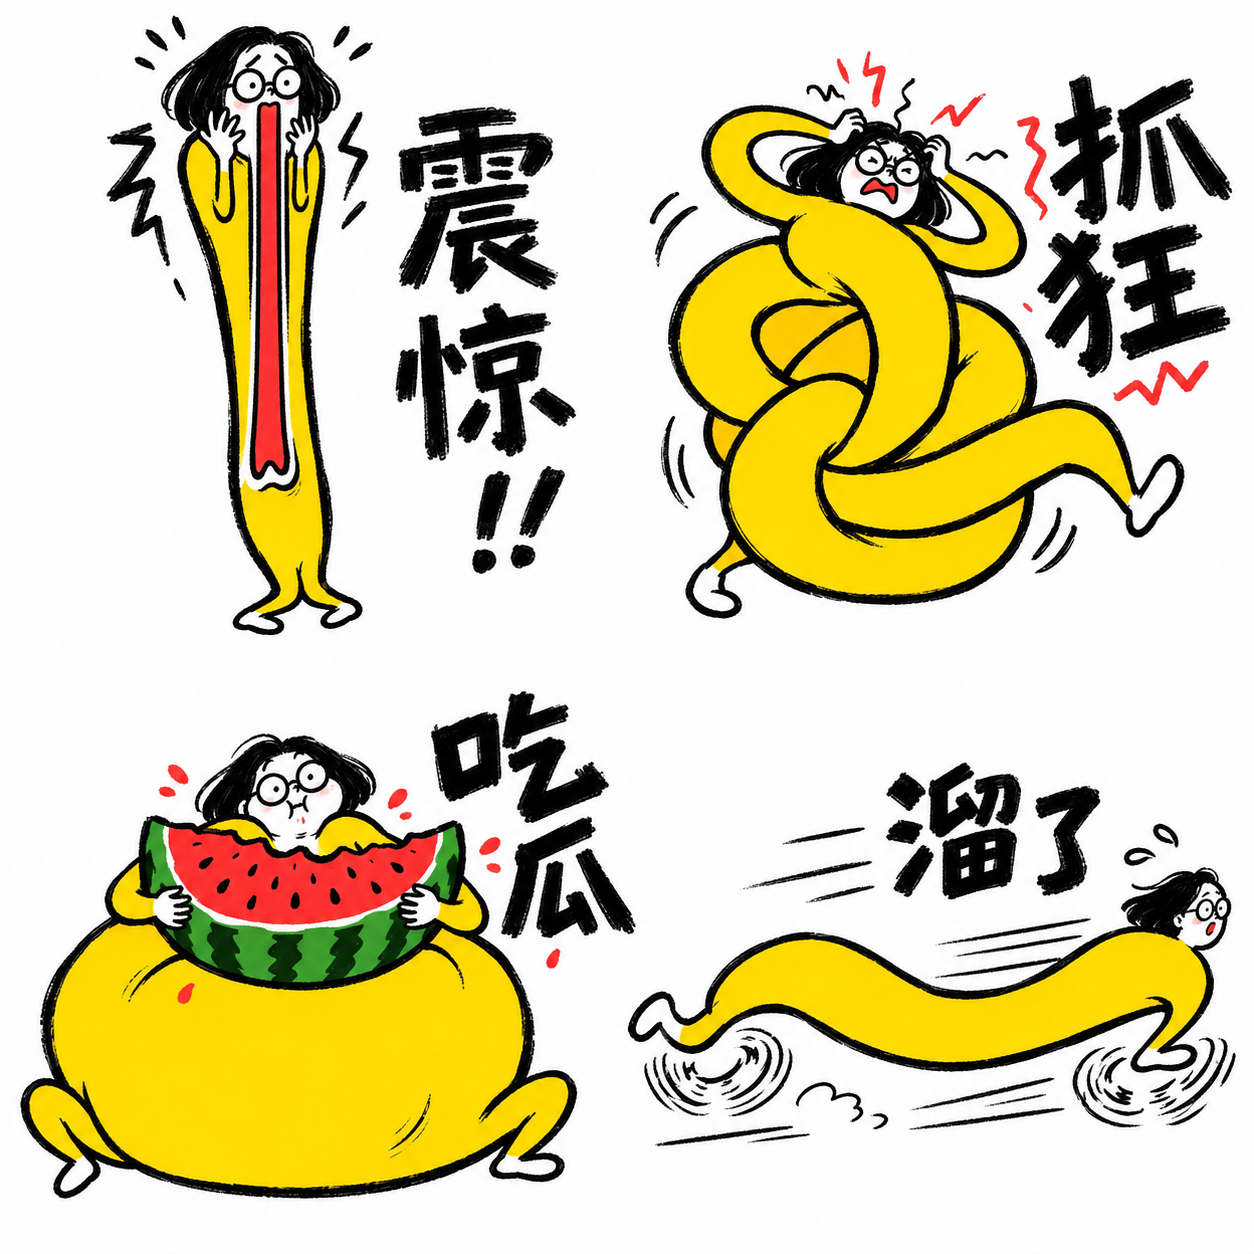
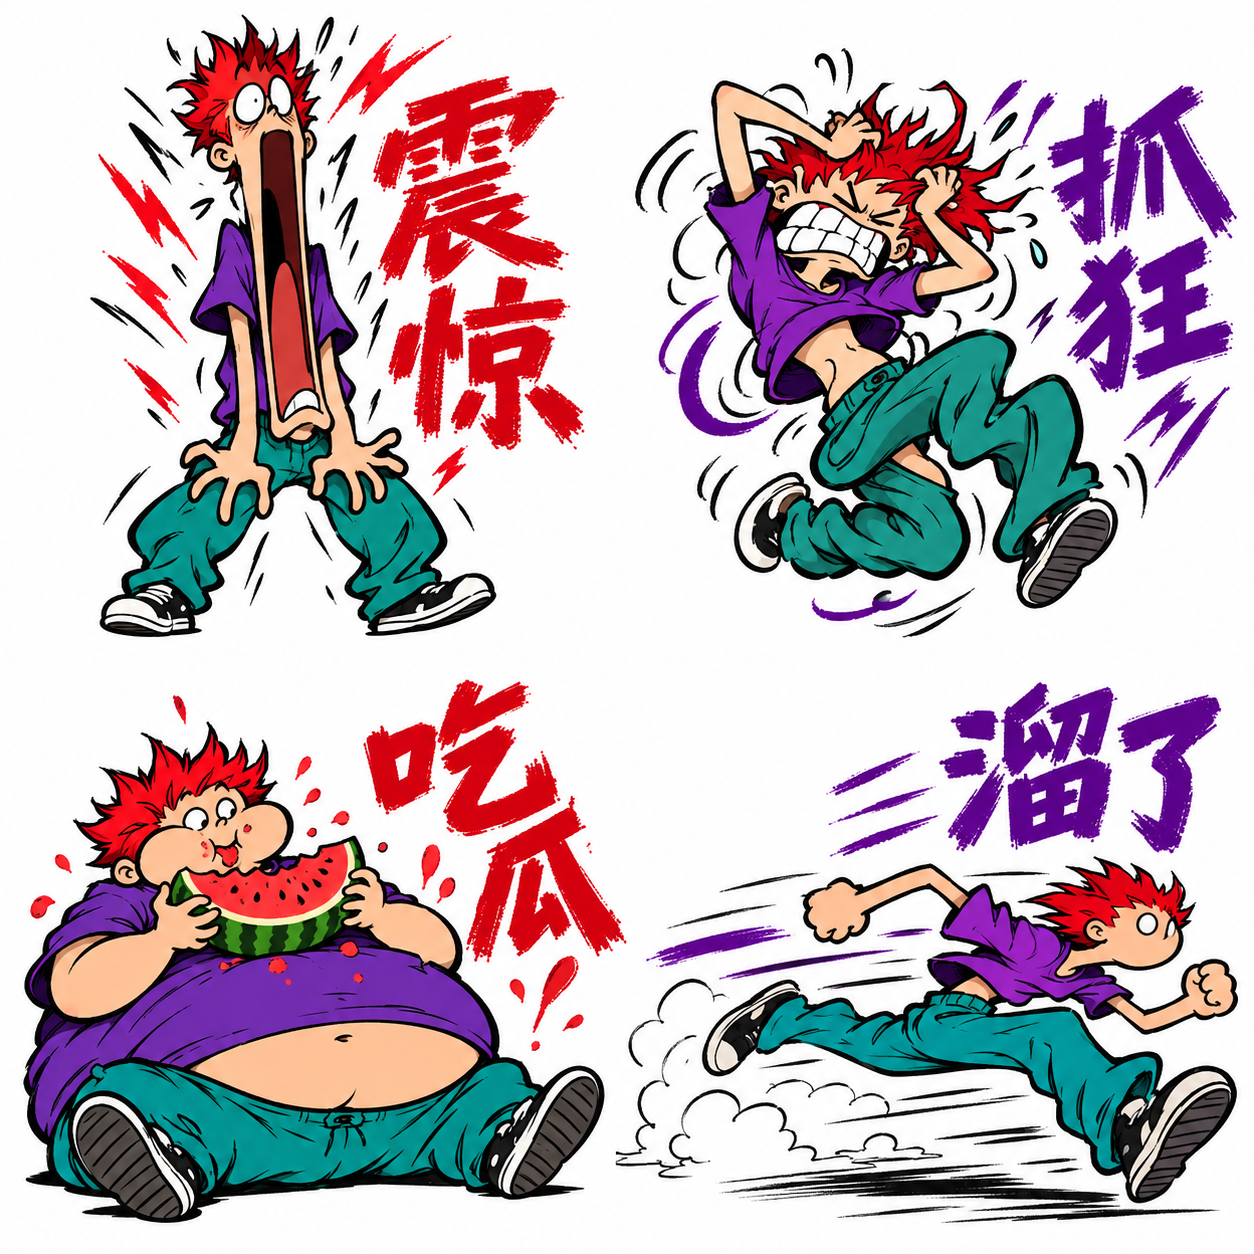
Diversify all nine template examples with distinct palettes, characters and materials

diff --git a/scripts/choose_template.py b/scripts/choose_template.py
@@ -13,7 +13,7 @@ def instantiate(template_id, style=None, title=None):
     t=templates[template_id];style_id=style or t['style']
     if style_id not in catalog['styles']:raise ValueError(f'未知画风: {style_id}')
     visual=catalog['styles'][style_id]
-    return {'template_id':t['id'],'template_name':t['name'],'style':{'id':style_id,**visual},'tone':t['tone'],'title':title or t['title_example'],'description':t['description_example'],'title_availability':'未查询，不能保证可用','identity_constraints':{},'reference_images':[],'trial':t['trial'],'stickers':[{'number':i,'meaning':s['meaning'],'action':s['action'],'status':'planned'} for i,s in enumerate(t['stickers'],1)],'cover_direction':t['cover_direction'] if style_id==t['style'] else f'采用{visual["name"]}画风；以同一角色的单个完整表情作为无文字独立封面，保持风格一致。','banner_direction':t['banner_direction'],'spec_status':'待平台复核','workflow_status':'创意草案；未生成，未上传','notes':['16项为可编辑的选题起点，不代表官方数量要求。','这是创意草案，不是prepare_assets.py build的源图清单；生成后填写实际source路径。']}
+    return {'template_id':t['id'],'template_name':t['name'],'style':{'id':style_id,**visual},'tone':t['tone'],'palette_example':t.get('palette_example',{}),'visual_direction':t.get('visual_direction',''),'title':title or t['title_example'],'description':t['description_example'],'title_availability':'未查询，不能保证可用','identity_constraints':{},'reference_images':[],'trial':t['trial'],'stickers':[{'number':i,'meaning':s['meaning'],'action':s['action'],'status':'planned'} for i,s in enumerate(t['stickers'],1)],'cover_direction':t['cover_direction'] if style_id==t['style'] else f'采用{visual["name"]}画风；以同一角色的单个完整表情作为无文字独立封面，保持风格一致。','banner_direction':t['banner_direction'],'spec_status':'待平台复核','workflow_status':'创意草案；未生成，未上传','notes':['16项为可编辑的选题起点，不代表官方数量要求。','这是创意草案，不是prepare_assets.py build的源图清单；生成后填写实际source路径。']}
 
 def main():
     p=argparse.ArgumentParser(description=__doc__);p.add_argument('template',nargs='?');p.add_argument('--style');p.add_argument('--title');p.add_argument('--out');args=p.parse_args()

diff --git a/tests/test_templates.py b/tests/test_templates.py
@@ -16,6 +16,8 @@ class TemplateTests(unittest.TestCase):
             self.assertEqual(len({s['meaning'] for s in brief['stickers']}),16)
             self.assertTrue(all(s['action'] for s in brief['stickers']))
             self.assertEqual(brief['reference_images'],[])
+            self.assertGreaterEqual(len(brief['palette_example']['colors']),3)
+            self.assertTrue(brief['visual_direction'])
             self.assertEqual(brief['spec_status'],'待平台复核')
     def test_mix_style_and_content(self):
         original=t.instantiate('office-life')

diff --git a/README.md b/README.md
@@ -74,7 +74,7 @@ git clone https://github.com/jianiye-coder/wechat-sticker-me.git ~/.codex/skills
 | 打工日常 | 灰阶脸部特写＋简笔身体，黑白职场梗图 |
 | 精神离线 | 低清抓拍、怼脸失真、微妙表情与短句补刀 |
 
-下面是每种模板的实际生成示例，每张展示4个表情。示例统一使用虚构人物，正式制作会按你的照片、发型、服装和口头禅定制。图片由 AI 生成，背景和低清质感用于 README 展示，不是直接投稿的透明素材。
+下面是每种模板的实际生成示例，每张展示4个表情。示例采用不同的虚构人物、服装与配色，展示可以定制的范围；正式制作会按你的照片、发型、服装和口头禅定制，不自动沿用示例人物的发色或肤色。图片由 AI 生成，彩色背景和部分低清质感用于 README 展示，不是直接投稿的透明素材。
 
 | 甜甜陪伴 · `sweet-company` | 手帐慢生活 · `cozy-journal` |
 | :---: | :---: |
@@ -94,7 +94,7 @@ git clone https://github.com/jianiye-coder/wechat-sticker-me.git ~/.codex/skills
 
 模板选项见 [模板指南](references/templates.md)，数据见 [catalog.json](templates/catalog.json)。
 
-模板既区分聊天场景，也区分视觉语言：圆润Q版、弹性漫画、几何扁平、黑白拼贴，不只是在同一套Q版里更换文字。每套依然可以保留你自己的发型、眼镜和服装等特点。
+模板既区分聊天场景，也区分材质和颜色：樱桃粉红、鼠尾草绿与薰衣草紫、薄荷钴蓝、霓虹街机、冰蓝云朵、红紫青撞色、锈橙炭灰、黑白珊瑚红，以及低清抓拍的异色灯光。配色可单独选择，也可以保留自己的真实发色和服装。
 
 ## 开始使用
 

diff --git a/references/creative.md b/references/creative.md
@@ -49,3 +49,9 @@
 比较多套模板时固定人物辨识锚点，不等于固定大眼睛、头身比例、服装颜色、描边和字体。每套至少在比例轮廓、线条/材质、配色、字体排布中拉开明显区别。模板内一致，模板间可不同。
 
 当前四个基础方向：soft-daily圆润软萌Q版；drama-club弹性粗笔漫画；cool-replies狭长几何扁平；office-life灰阶脸部与简笔身体拼贴。不要生成同一个精致大眼Q版人物后只换配字。风格参考提炼表达方法，不复制现有IP或未经用户提供的真人脸。
+
+## 颜色与人物多样性
+
+展示模板目录时不要固定所有示例为棕发、黄衣、米白底。使用各模板的palette_example与visual_direction区分色相、明暗、饱和度和材质；深色/霓虹与低饱和/纸感应有明显差别。色板只是可选方案，不覆盖用户照片中的肤色、发型和服装约束；用户要求改色时才调整其身份特征。
+
+同一用户的成品套内保持角色与色彩一致，不为了展示多样性给每张随机换发色。目录可以用多种虚构人物；不得把目录人物当作用户默认长相。
